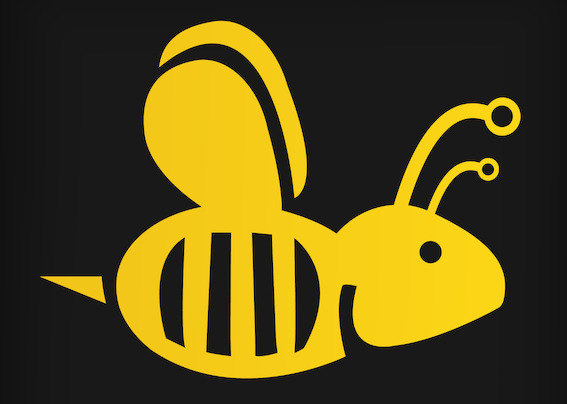
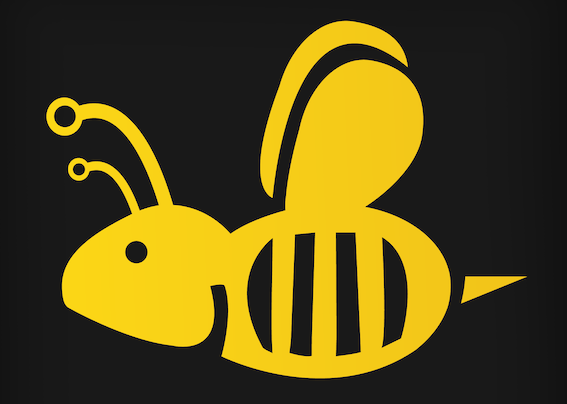
Change direction of bee

diff --git a/src/components/Header/Header.css b/src/components/Header/Header.css
@@ -61,12 +61,6 @@
 
 @media only screen and (min-width: 1200px) {
 
-    /* .title_with_image {
-        display: inline-flex;
-        padding: 2rem 2rem 0 2rem;
-        align-items: center;
-    } */
-
     .main_heading {
         font-size: 6rem;
     }
